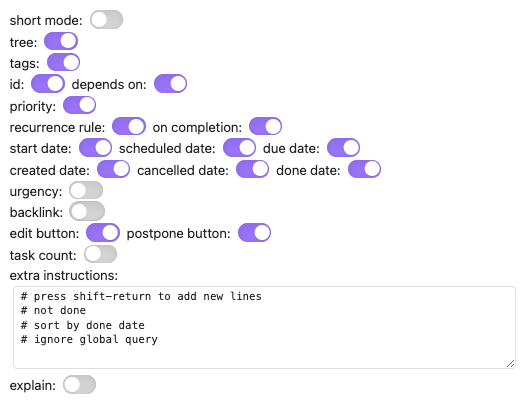
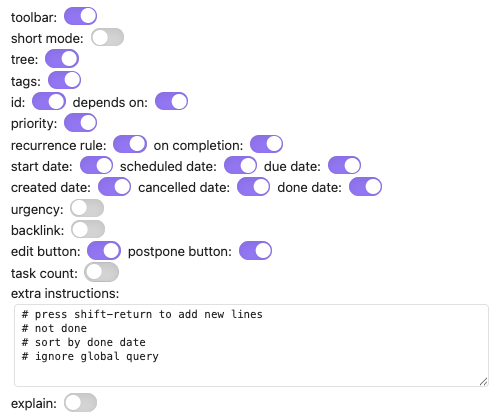
docs: Update screenshot of Meta Bind widgets, and note how I created it

Changed region(s): [[0.0, 0.0, 0.7847, 0.8657], [0.0, 0.9254, 0.2113, 0.9851], [0.9658, 0.8955, 0.996, 0.9254]]

diff --git a/docs/How To/Make a query user interface.md b/docs/How To/Make a query user interface.md
@@ -24,6 +24,12 @@ We can combine:
 - enable or disable other search features, such as nested tasks, short mode, backlink and buttons,
 - and allow arbitrary extra instructions to be added:
 
+<!--
+    The following screenshot is copied from
+    Manual Testing/Frontmatter/Placeholder examples to capture in tests and docs.md
+    in the sample vault
+-->
+
 ![Meta Bind widgets to edit Query File Defaults](../images/query-file-defaults-meta-bind-controls.png)
 <span class="caption">Meta Bind widgets to edit Query File Defaults</span>
 
